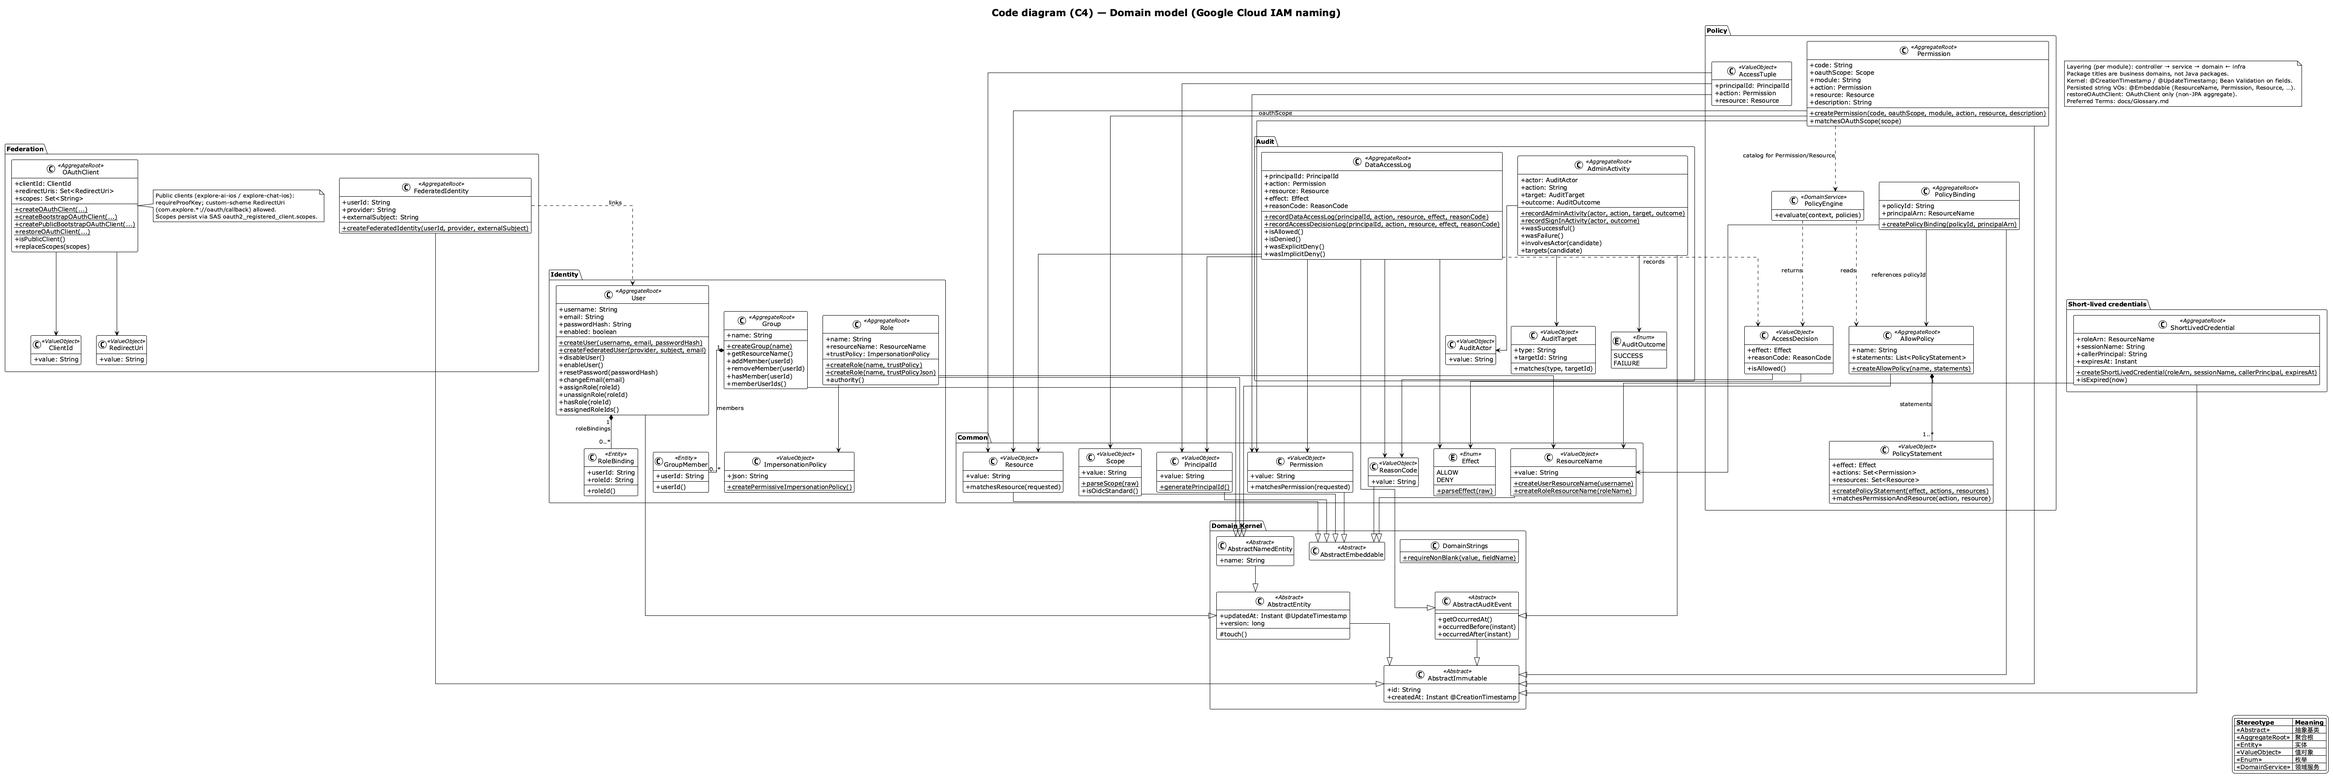
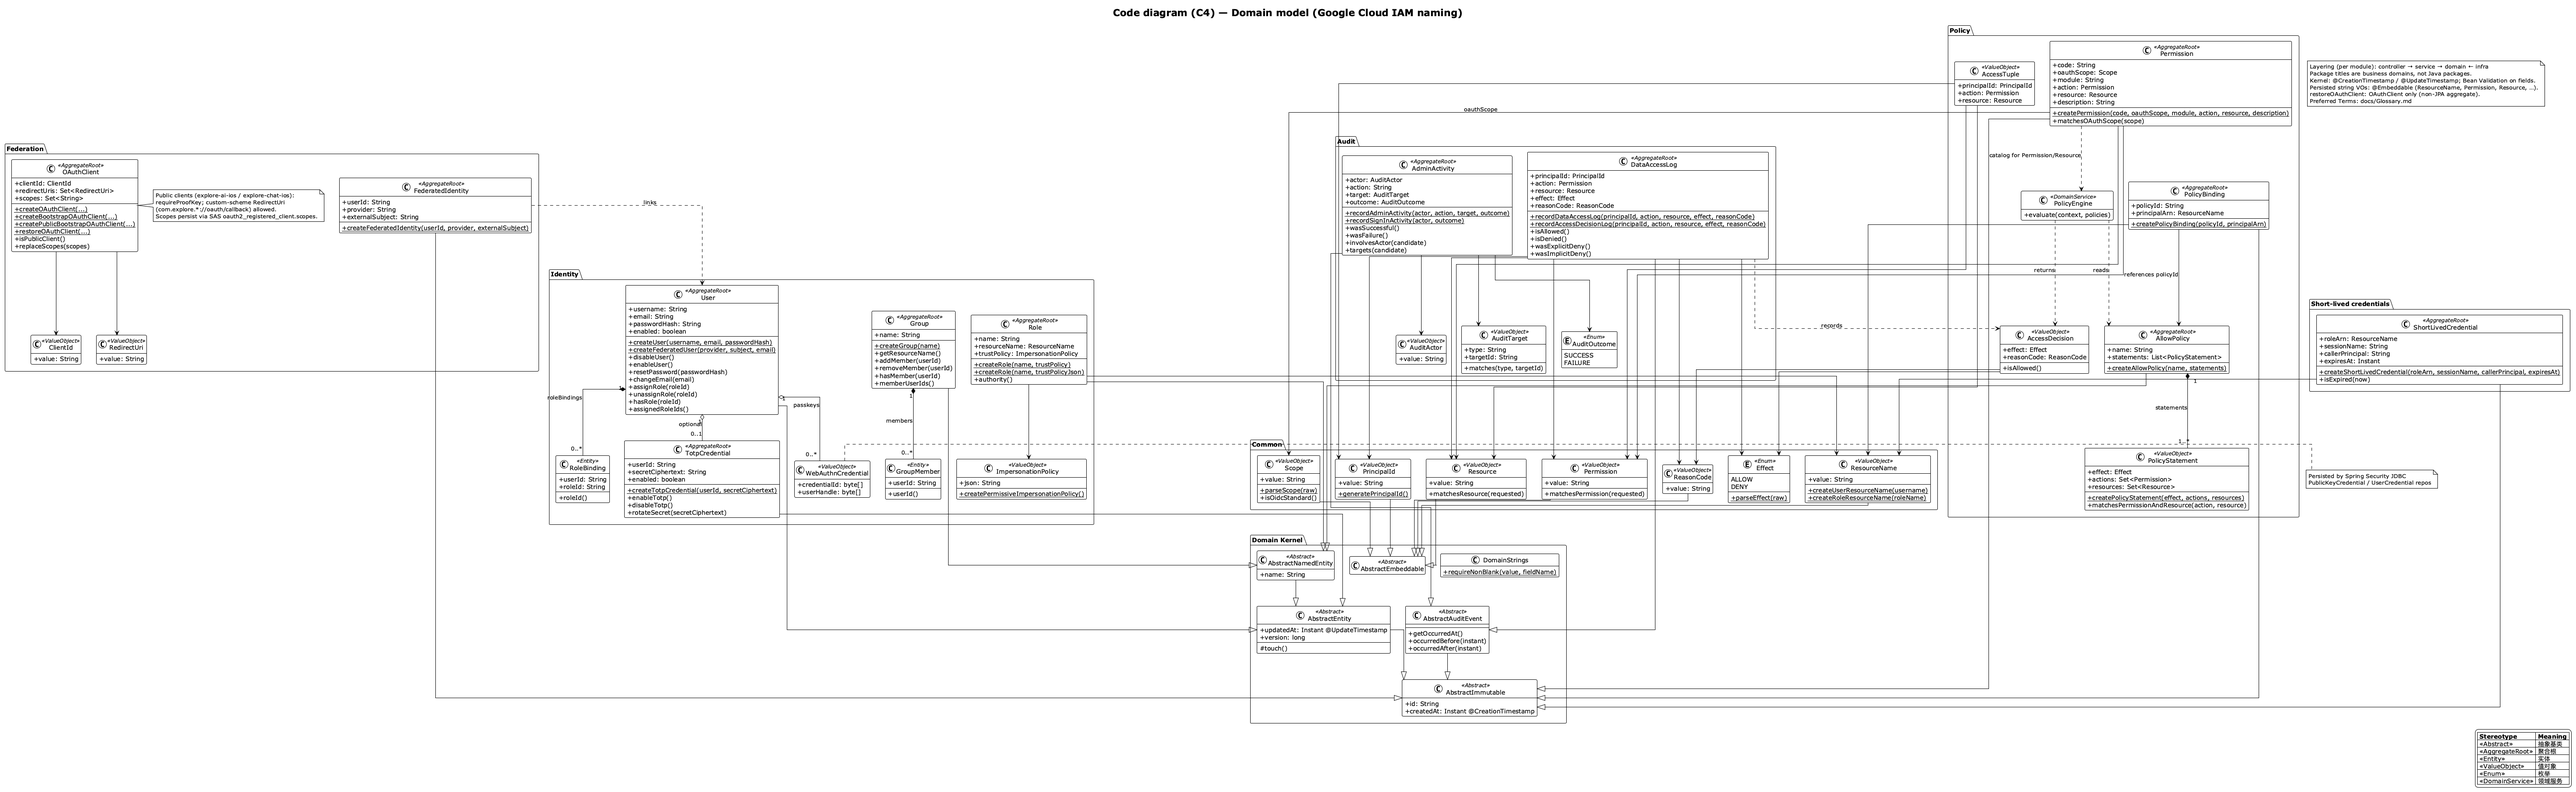
Document MFA factors in glossary and C4 (#109)
Living docs must name One-Time Token, Passkey, and
TOTP Credential before session MFA lands so authorize
flows and the domain model share one vocabulary.
Fold Checkstyle fixes so the Phase 1 layer stays a
single reviewable commit for CI.

References:

- https://docs.spring.io/spring-security/reference/servlet/authentication/mfa.html
- https://docs.spring.io/spring-security/reference/servlet/authentication/onetimetoken.html
- https://docs.spring.io/spring-security/reference/servlet/authentication/passkeys.html
- https://c4model.com/
- https://www.rfc-editor.org/rfc/rfc6238

diff --git a/src/main/java/com/iam/federation/controller/OAuthClientController.java b/src/main/java/com/iam/federation/controller/OAuthClientController.java
@@ -1,8 +1,8 @@
 package com.iam.federation.controller;
 
 import com.iam.federation.service.OAuthClientService;
-import com.iam.federation.service.OAuthClientService.OAuthClientView;
 import com.iam.federation.service.OAuthClientService.CreateOAuthClientCommand;
+import com.iam.federation.service.OAuthClientService.OAuthClientView;
 import com.iam.federation.service.OAuthClientService.RegisteredOAuthClientResult;
 import java.util.List;
 import org.springframework.http.HttpStatus;
@@ -39,7 +39,8 @@ public class OAuthClientController {
    */
   @PostMapping
   @PreAuthorize("hasRole('IAM_ADMIN')")
-  public ResponseEntity<OAuthClientResponse> createOAuthClient(@RequestBody CreateOAuthClientRequest request) {
+  public ResponseEntity<OAuthClientResponse> createOAuthClient(
+      @RequestBody CreateOAuthClientRequest request) {
     RegisteredOAuthClientResult result =
         oauthClientService.createOAuthClient(
             new CreateOAuthClientCommand(

diff --git a/src/test/java/com/iam/federation/controller/OAuthClientControllerTest.java b/src/test/java/com/iam/federation/controller/OAuthClientControllerTest.java
@@ -62,7 +62,11 @@ class OAuthClientControllerTest {
         .containsExactly("client_secret_basic");
 
     List<OAuthClientResponse> list =
-        client.get().uri("/api/v1/oauthClients").retrieve().body(new ParameterizedTypeReference<>() {});
+        client
+            .get()
+            .uri("/api/v1/oauthClients")
+            .retrieve()
+            .body(new ParameterizedTypeReference<>() {});
 
     assertThat(list).isNotNull();
     OAuthClientResponse listed =

diff --git a/src/main/java/com/iam/policy/controller/PolicyController.java b/src/main/java/com/iam/policy/controller/PolicyController.java
@@ -43,7 +43,8 @@ public class PolicyController {
    */
   @PostMapping
   @PreAuthorize("hasRole('IAM_ADMIN')")
-  public ResponseEntity<AllowPolicyResponse> createAllowPolicy(@RequestBody CreatePolicyRequest request) {
+  public ResponseEntity<AllowPolicyResponse> createAllowPolicy(
+      @RequestBody CreatePolicyRequest request) {
     AllowPolicy policy =
         policyService.createAllowPolicy(
             new CreatePolicyCommand(

diff --git a/docs/Glossary.md b/docs/Glossary.md
@@ -110,6 +110,17 @@ Terms mapping Explore IAM security behavior to [Spring Security](https://docs.sp
 | Logout | 登出 | Invalidates session and clears security context | `HttpSecurity.logout()` → `/logout` | implemented |
 | Session | 会话 | Server-side HTTP session binding authenticated principal | `HttpSession` + Spring Security context | implemented |
 
+### 4.2.1 Multi-Factor Authentication
+
+| Preferred Term (English) | 中文 | Definition | Framework Mapping | Status |
+| ------------------------ | ---- | ---------- | ----------------- | ------ |
+| MFA | 多因素认证 | Require more than one authentication factor before a full session | Spring Security `FactorGrantedAuthority` + factor authorization rules | planned |
+| Factor Authority | 因素权限 | Authority issued when a factor succeeds (e.g. password, OTT) | `FactorGrantedAuthority` (`FACTOR_PASSWORD`, `FACTOR_OTT`, …) | planned |
+| One-Time Token | 一次性令牌 | Server-generated login token delivered out-of-band (magic link); **not** TOTP | `HttpSecurity.oneTimeTokenLogin()` / `OneTimeTokenService` | planned |
+| Passkey | 通行密钥 | WebAuthn public-key credential for phishing-resistant sign-in | `HttpSecurity.webAuthn()` + JDBC WebAuthn repositories | planned |
+| WebAuthn Credential | WebAuthn 凭证 | Stored public key / credential id for a Passkey | Spring Security WebAuthn JDBC tables | planned |
+| TOTP Credential | TOTP 凭证 | Shared secret for authenticator-app codes (RFC 6238) | Domain `TotpCredential` + custom `FACTOR_TOTP` | planned |
+
 ### 4.3 OAuth 2.0 / OIDC (Authorization Server)
 
 | Preferred Term (English) | 中文 | Definition | Framework Mapping | Status |
@@ -248,7 +259,7 @@ Cross-bounded-context value objects in `com.iam.common.domain.model`
 | Assign Role | 分配角色 | Bind a role to a user | Behavior | `User.assignRole` | implemented |
 | Impersonation Policy | 模拟策略 | Who may obtain short-lived credentials for a Role | Value Object | `ImpersonationPolicy` | implemented |
 | Federated Identity | 联邦身份 | Maps external provider + subject to local user | Aggregate | `FederatedIdentity` | implemented |
-| MFA | 多因素认证 | Extra factor beyond password | Capability | planned | planned |
+| TOTP Credential | TOTP 凭证 | Authenticator-app second factor (RFC 6238); secret encrypted at rest | Aggregate | `TotpCredential` | planned |
 | OAuth Client | OAuth 客户端 | Relying product registered as an OAuth / OIDC client | Aggregate | `OAuthClient` | implemented |
 
 ---
